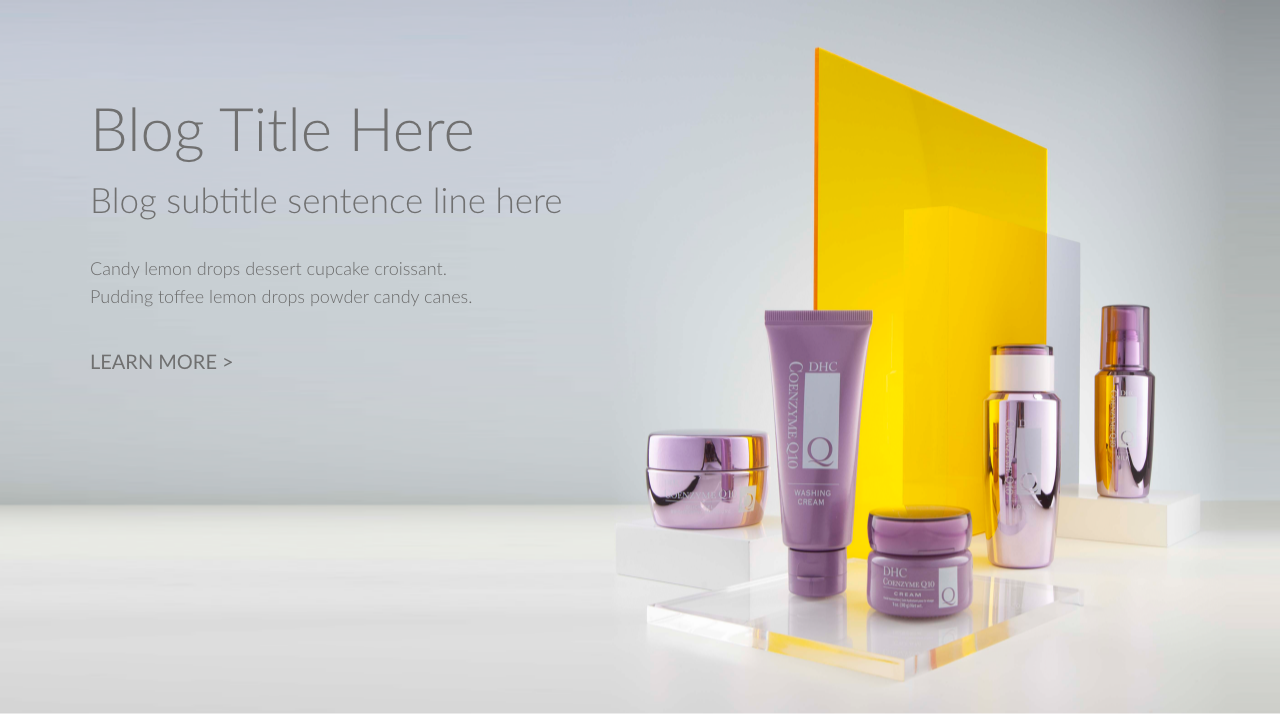
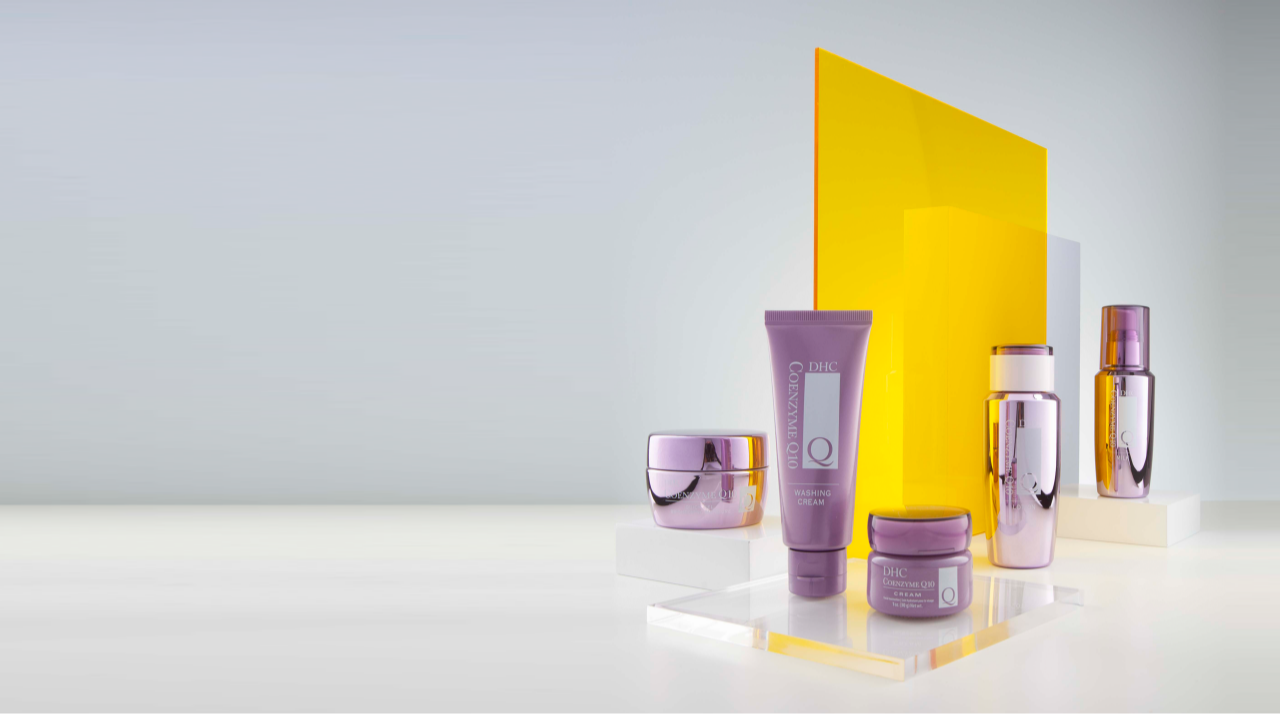
info image prep
Generated FPO images for Info section

diff --git a/index.html b/index.html
@@ -2,7 +2,7 @@
 <html lang="en">
 <head>
   <meta charset="utf-8">
-  <title>R&D - Carousels</title>
+  <title>CoQ10 Collection page</title>
   <link rel="stylesheet" href="./ae-css/8213.css">
   <link rel="stylesheet" href="./ae-css/styles-l.css">
   <link rel="stylesheet" href="./dest/css/styles.css">
